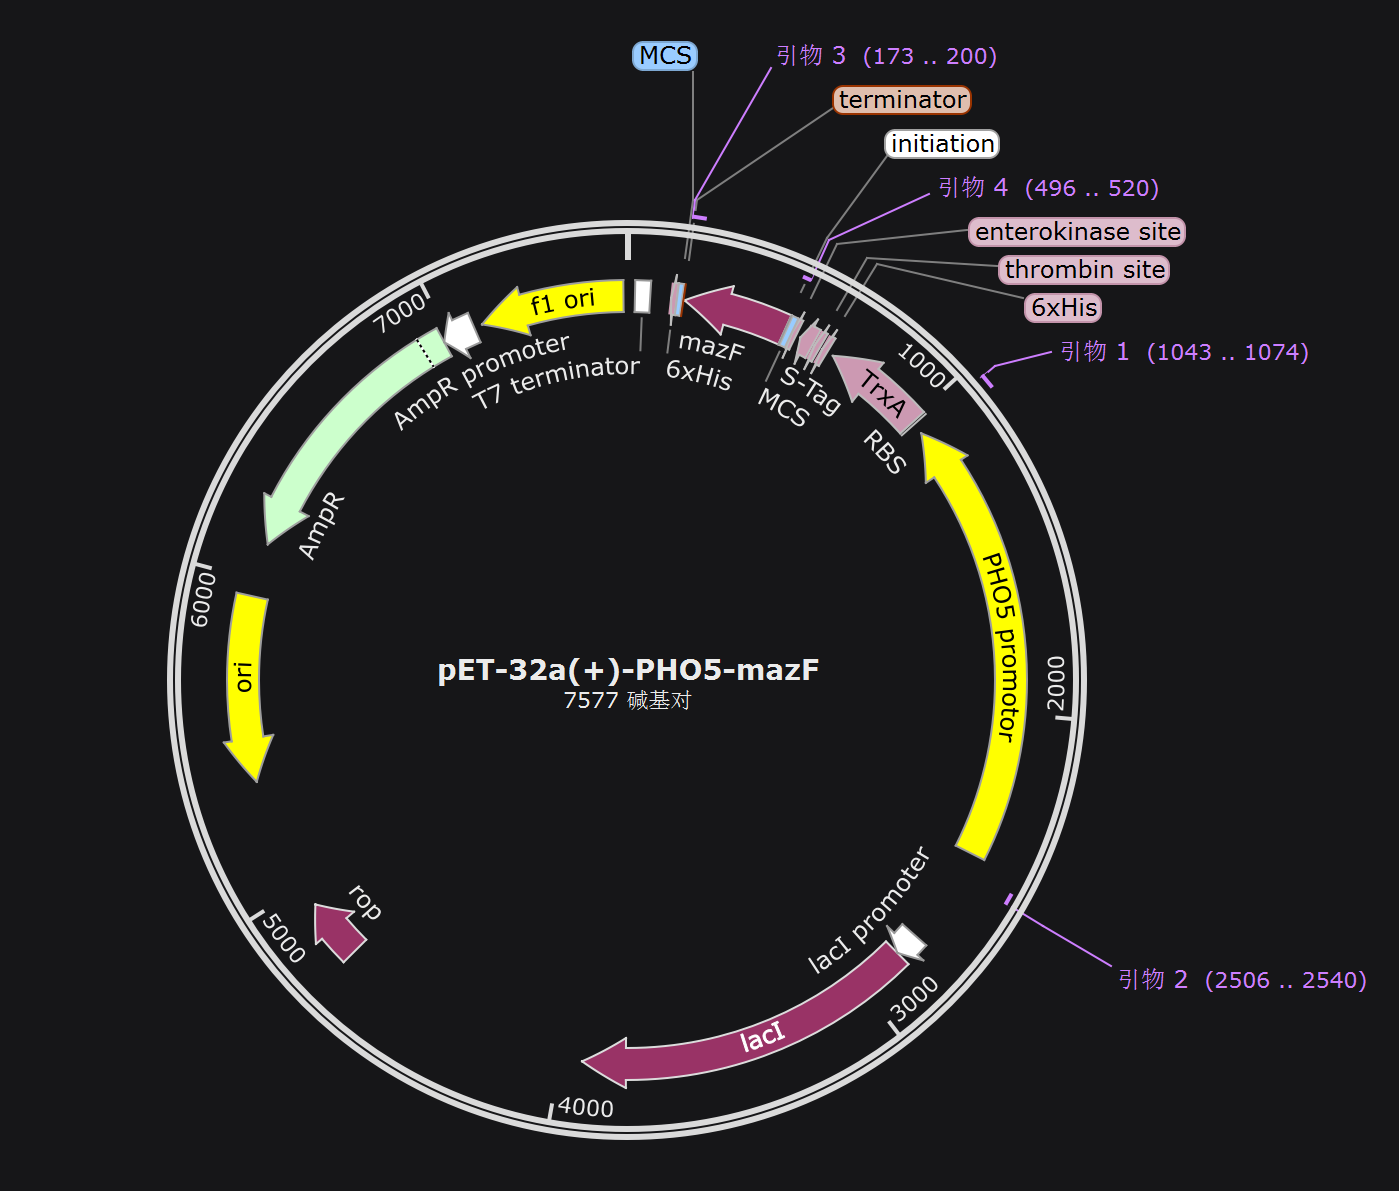
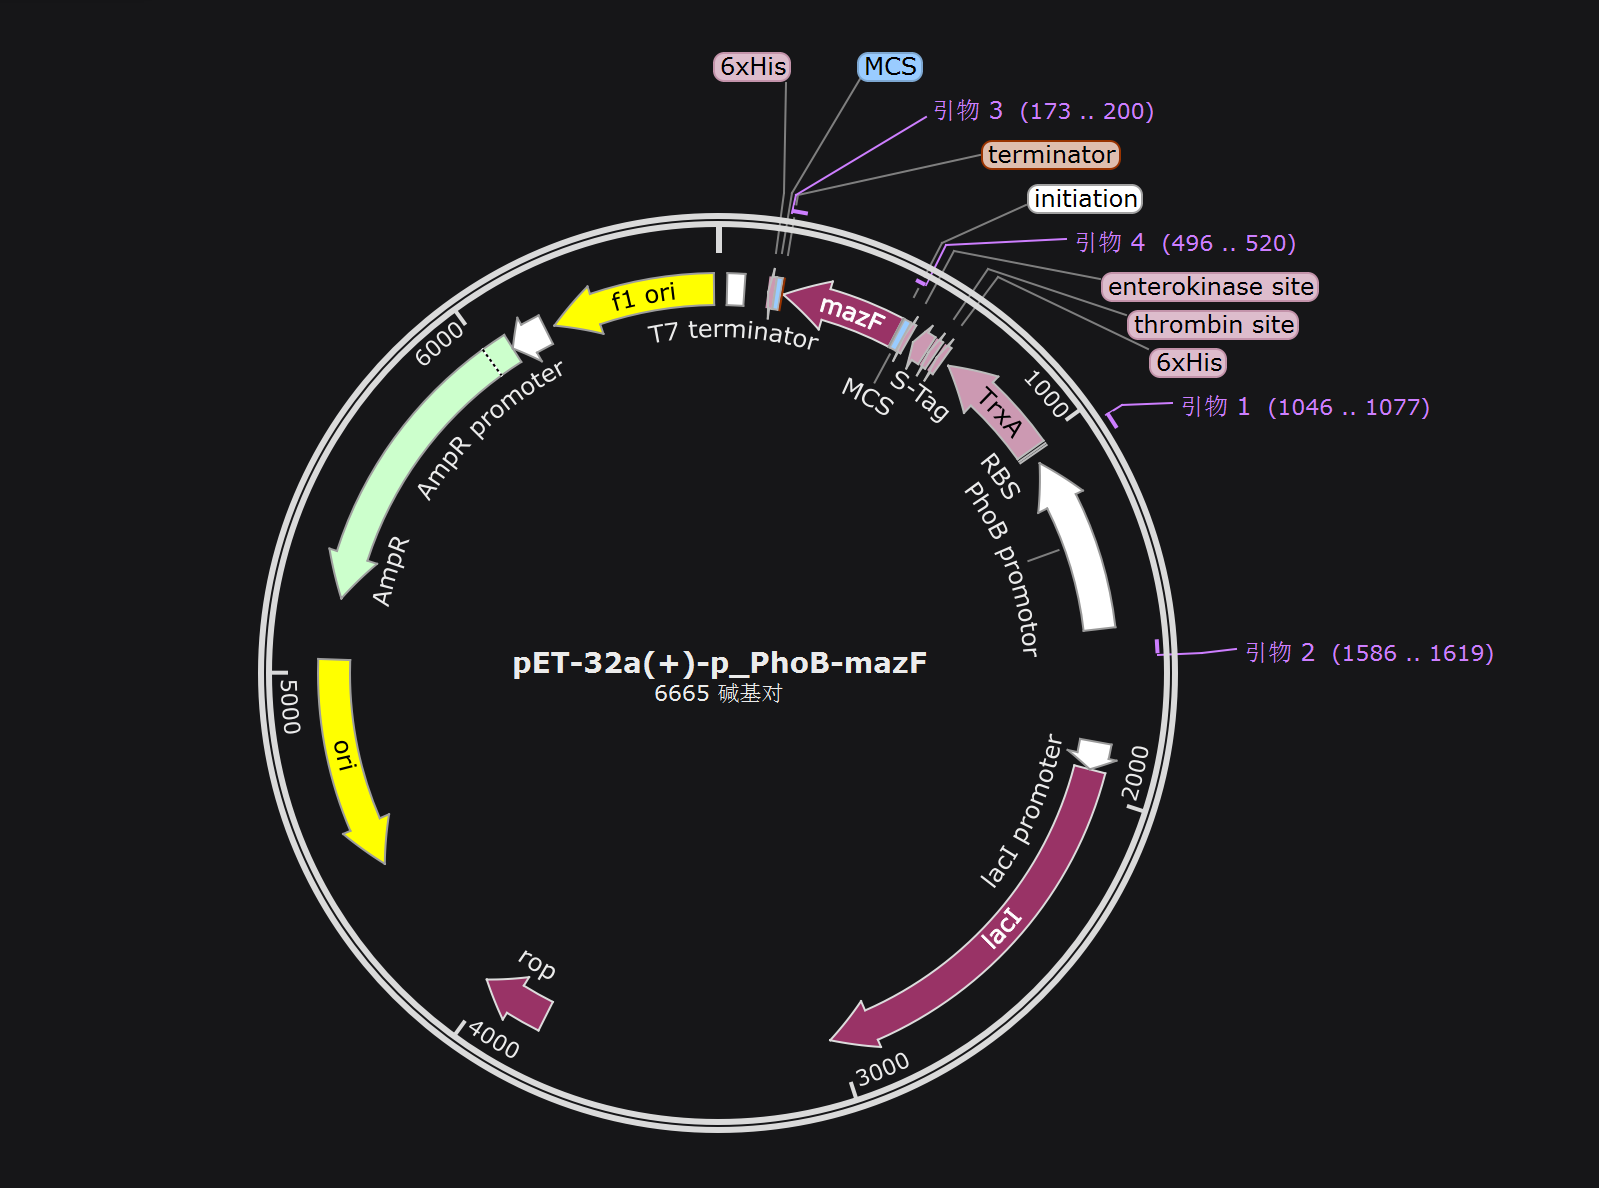
[Update] Finish Engineer

diff --git a/wiki/wetlab/engineering.html b/wiki/wetlab/engineering.html
@@ -167,6 +167,16 @@
                         </div>
                     </div>
 
+                    <div class="t1">
+                        <span>Auxotrophic Mutual Assistance System</span>
+                        <div class="t2">
+                            <a href="#6cycle1">cycle1:Survival of strain A and strain B in the absence of relevant amino acids.</a>
+                        </div>
+                        <div class="t2">
+                            <a href="#6cycle2">cycle2:Co-cultivation of strain A and strain B (at different dilution concentrations)</a>
+                        </div>
+                    </div>
+
 
                 </div>
             </div>
@@ -787,7 +797,7 @@
                                 <p>We have verified the effective loading of the hydrogel to phosphate, and subsequently, we wish to test the effectiveness of this suicide system by detecting the initiation threshold of the suicide switch PHO5 promoter.</p>
 
                                 <h3>2. Construction</h3>
-                                <p>The <strong>pЕТ-32a(+)-PHO5-mazF recombinant plasmid</strong> was constructed and the suicide gene mazF was placed under the control of the phosphate-sensitive promoter PHO5. The plasmid was introduced by heat-excited transformation into receptorized SHuffle T7-B E. coli that had been introduced with pET-32a(+)-RNF114-crimso, and recovery was carried out by streak culture. The positive bacteria were cultured in medium containing ampicillin (Ampicillin), picked and transferred to liquid medium at 33°C.</p>
+                                <p>The <strong>pET-32a(+)-p_PhoB-mazF recombinant plasmid</strong> was constructed and the suicide gene mazF was placed under the control of the phosphate-sensitive promoter PHO5. The plasmid was introduced by heat-excited transformation into receptorized SHuffle T7-B E. coli that had been introduced with pET-32a(+)-RNF114-crimso, and recovery was carried out by streak culture. The positive bacteria were cultured in medium containing ampicillin (Ampicillin), picked and transferred to liquid medium at 33°C.</p>
                                 
                                 <div class="img-grid-with-caption">
                                     <div class="img-grid">
@@ -850,6 +860,147 @@
                             </div>
                         </section>
                         
+                    </div>
+                </section>
+
+                <section id="6cycle1" class="sub-section">
+                    <div class="section-header">
+                        <h2>Cycle 1: Survival of strain A and strain B in the absence of relevant amino acids</h2>
+                        <button class="section-collapse-btn">
+                            <ion-icon name="chevron-up-outline"></ion-icon>
+                        </button>
+                    </div>
+                    <div class="section-content">
+                        <h3>1. Design</h3>
+                        <p>We first tested the survival of E. coli strain A and E. coli strain B in the absence of their respective amino acids (Trp or His).</p>
+                        <ul>
+                            <li>group A: Cultivate strain A of Escherichia coli in a medium lacking tryptophan (Trp) to observe whether it can grow.</li>
+                            <li>B group: Cultivate B. coli in a medium lacking histidine (His) and observe whether it can grow.</li>
+                            <li>Control group: Bacteria A and B are cultured in media containing their respective required amino acids, serving as positive controls.</li>
+                        </ul>
+
+                        <h3>2. Construction</h3>
+                        <p>Construct pdCas9-HisAgRNA recombinant plasmid and pdCas9-trpCgRNA recombinant plasmid. pET-32a(+)-trpEDCBA-aroG recombinant plasmid and pET-32a(+)-HisGene recombinant plasmid.</p>
+                        
+                        <div class="img-grid-with-caption">
+                            <div class="img-grid">
+                                <img src="../../static/img/engineer/auxo1.png" alt="Construction Image 1">
+                                <img src="../../static/img/engineer/auxo2.png" alt="Construction Image 2">
+                            </div>
+                            <div class="img-grid">
+                                <img src="../../static/img/engineer/auxo3.png" alt="Construction Image 3">
+                                <img src="../../static/img/engineer/auxo4.png" alt="Construction Image 4">
+                            </div>
+                        </div>
+
+                        <p>The pdCas9-HisAgRNA recombinant plasmid and the pET-32a(+)-trpEDCBA-aroG recombinant plasmid were co-transformed into the competent SHuffle T7-B E. coli A strain that had already been transformed with pET-32a(+)-RNF114-crimso using heat shock, followed by streaking for revival. They were cultured on media containing ampicillin, and positive colonies were selected and transferred to liquid media for cultivation at 33°C.</p>
+                        
+                        <p>The pdCas9-trpCgRNA recombinant plasmid and the pET-32a(+)-HisGene recombinant plasmid were co-transformed into the competent SHuffle T7-B E. coli A strain that had already been transformed with pET-32a(+)-RNF114-crimso using heat shock, followed by streaking for revival. They were cultured on media containing ampicillin, and positive colonies were selected and transferred to liquid media for cultivation at 33°C.</p>
+
+                        <h3>3. Test</h3>
+                        <p>Select strain A and strain B, and culture them separately in liquid media lacking tryptophan or histidine at a temperature of 33°C for a period of 72 hours.</p>
+
+                        <table class="data-table">
+                            <thead>
+                                <tr>
+                                    <th>group</th>
+                                    <th>tryptophan/histidine concentration</th>
+                                </tr>
+                            </thead>
+                            <tbody>
+                                <tr>
+                                    <td>1</td>
+                                    <td>2.00×10<sup>-4</sup> mol/L</td>
+                                </tr>
+                                <tr>
+                                    <td>2</td>
+                                    <td>1.43×10<sup>-4</sup> mol/L</td>
+                                </tr>
+                                <tr>
+                                    <td>3</td>
+                                    <td>1.03×10<sup>-4</sup> mol/L</td>
+                                </tr>
+                                <tr>
+                                    <td>4</td>
+                                    <td>7.40×10<sup>-5</sup> mol/L</td>
+                                </tr>
+                                <tr>
+                                    <td>5</td>
+                                    <td>5.30×10<sup>-5</sup> mol/L</td>
+                                </tr>
+                                <tr>
+                                    <td>6</td>
+                                    <td>3.80×10<sup>-5</sup> mol/L</td>
+                                </tr>
+                                <tr>
+                                    <td>7</td>
+                                    <td>2.70×10<sup>-5</sup> mol/L</td>
+                                </tr>
+                                <tr>
+                                    <td>8</td>
+                                    <td>1.90×10<sup>-5</sup> mol/L</td>
+                                </tr>
+                                <tr>
+                                    <td>9</td>
+                                    <td>1.40×10<sup>-5</sup> mol/L</td>
+                                </tr>
+                                <tr>
+                                    <td>10</td>
+                                    <td>1.00×10<sup>-5</sup> mol/L</td>
+                                </tr>
+                                <tr>
+                                    <td>eyeball environment</td>
+                                    <td>2.00×10<sup>-7</sup> mol/L</td>
+                                </tr>
+                            </tbody>
+                        </table>
+
+                        <p>Samples were taken at different time points (0 hours, 24 hours, 48 hours, 72 hours) and colony counts or optical density (OD) measurements were conducted to observe whether bacteria could grow.</p>
+
+                        <h3>4. Learn</h3>
+                        <p>Strain A cannot grow in a medium without Trp, and strain B cannot grow in a medium without His, proving that they cannot survive independently and must rely on the amino acids provided by each other. The control groups of strains A and B can grow normally under conditions where the corresponding amino acids are supplemented. This indicates that the nutritional deficiency type E. coli AB has been successfully constructed.</p>
+                    </div>
+                </section>
+
+                <section id="6cycle2" class="sub-section">
+                    <div class="section-header">
+                        <h2>Cycle 2: Co-cultivation of strain A and strain B (at different dilution concentrations)</h2>
+                        <button class="section-collapse-btn">
+                            <ion-icon name="chevron-up-outline"></ion-icon>
+                        </button>
+                    </div>
+                    <div class="section-content">
+                        <h3>1. Goal</h3>
+                        <p>The test examines whether bacteria A and B can form a mutualistic system through metabolic complementation at different cell densities (dilution concentrations), or if they cannot survive due to excessive distance between the bacteria.</p>
+
+                        <h3>2. Design</h3>
+                        <p>In the co-culture system, strain A provides histidine (His), and strain B provides tryptophan (Trp).</p>
+                        <ol>
+                            <li>Set different bacterial dilution concentrations to adjust the average distance between bacteria:
+                                <ul>
+                                    <li><p>High concentration group (original bacterial solution): Bacteria A and B are mixed and cultured directly without dilution.</p></li>
+                                    <li><p>Medium concentration group (10 times dilution): Bacteria A and B are diluted 10 times respectively and then mixed for cultivation.</p></li>
+                                    <li><p>Low concentration group (100 times dilution): Bacteria A and B are diluted 100 times respectively and then mixed for cultivation.</p></li>
+                                    <li><p>Ultra-low concentration group (1000 times dilution): Bacteria A and B are diluted 1000 times respectively and then mixed for cultivation.</p></li>
+                                </ul>
+                            </li>
+                        </ol>
+
+                        <h3>3. Test</h3>
+                        <ol>
+                            <li>Select strain A and strain B, and perform gradient dilution co-culture in a liquid medium containing minimal Trp and His (only to maintain initial growth).</li>
+                            <li>Cultured at 33°C for 72 hours, samples were taken at different time points (0 h, 24 h, 48 h, 72 h) and subjected to:
+                                <ul>
+                                    <li>Colony count (CFU/ml), observed under a fluorescence microscope, counting red fluorescent bacteria under 588 nm light excitation.</li>
+                                    <li>OD600 measurement (growth curve)</li>
+                                    <li>Observed under a fluorescence microscope, examining the distribution of bacteria under 588 nm light excitation.</li>
+                                </ul>
+                            </li>
+                            <li>Record the growth of the microbial bodies and analyze the mutual growth conditions of strain A and strain B at different dilution concentrations.</li>
+                        </ol>
+
+                        <h3>4. Learn</h3>
+                        <p>Cycle 2 determined the survival status of bacteria A and bacteria B at different dilution concentrations, allowing for the plotting of a curve of dilution concentration versus survival rate (failure rate of the nutrient mutualism system), thereby analyzing whether leakage in the eye or other environments could cause the nutrient mutualism system to fail.</p>
                     </div>
                 </section>
 
